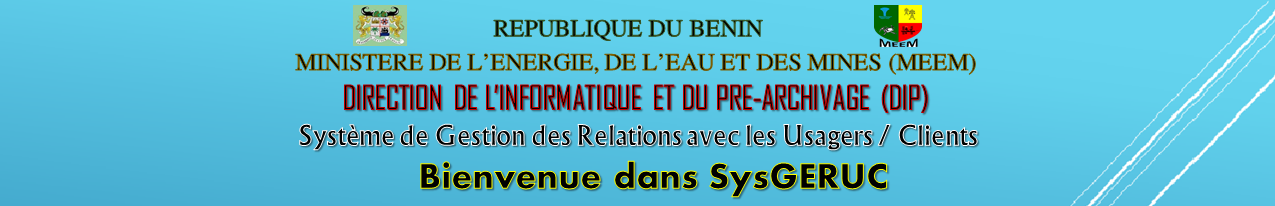
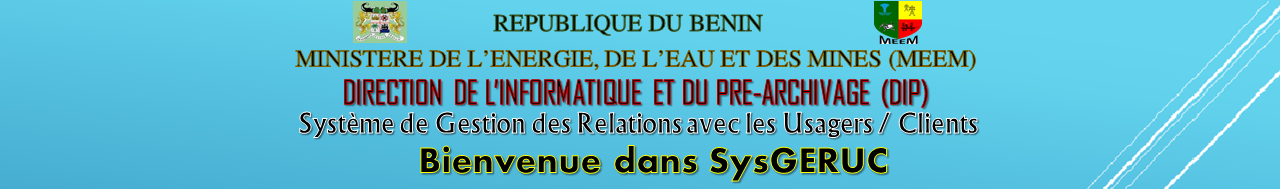
Updated production config

diff --git a/web/plateforme/css/stylesheet.css b/web/plateforme/css/stylesheet.css
@@ -67,7 +67,7 @@ ul {
 ********************************/
 .navbar {
   background: transparent url(../img/IMAGE.png) top left repeat;
-  height: 250px;
+  height: 190px;
 }
 
 .navbar-fixed-top {
